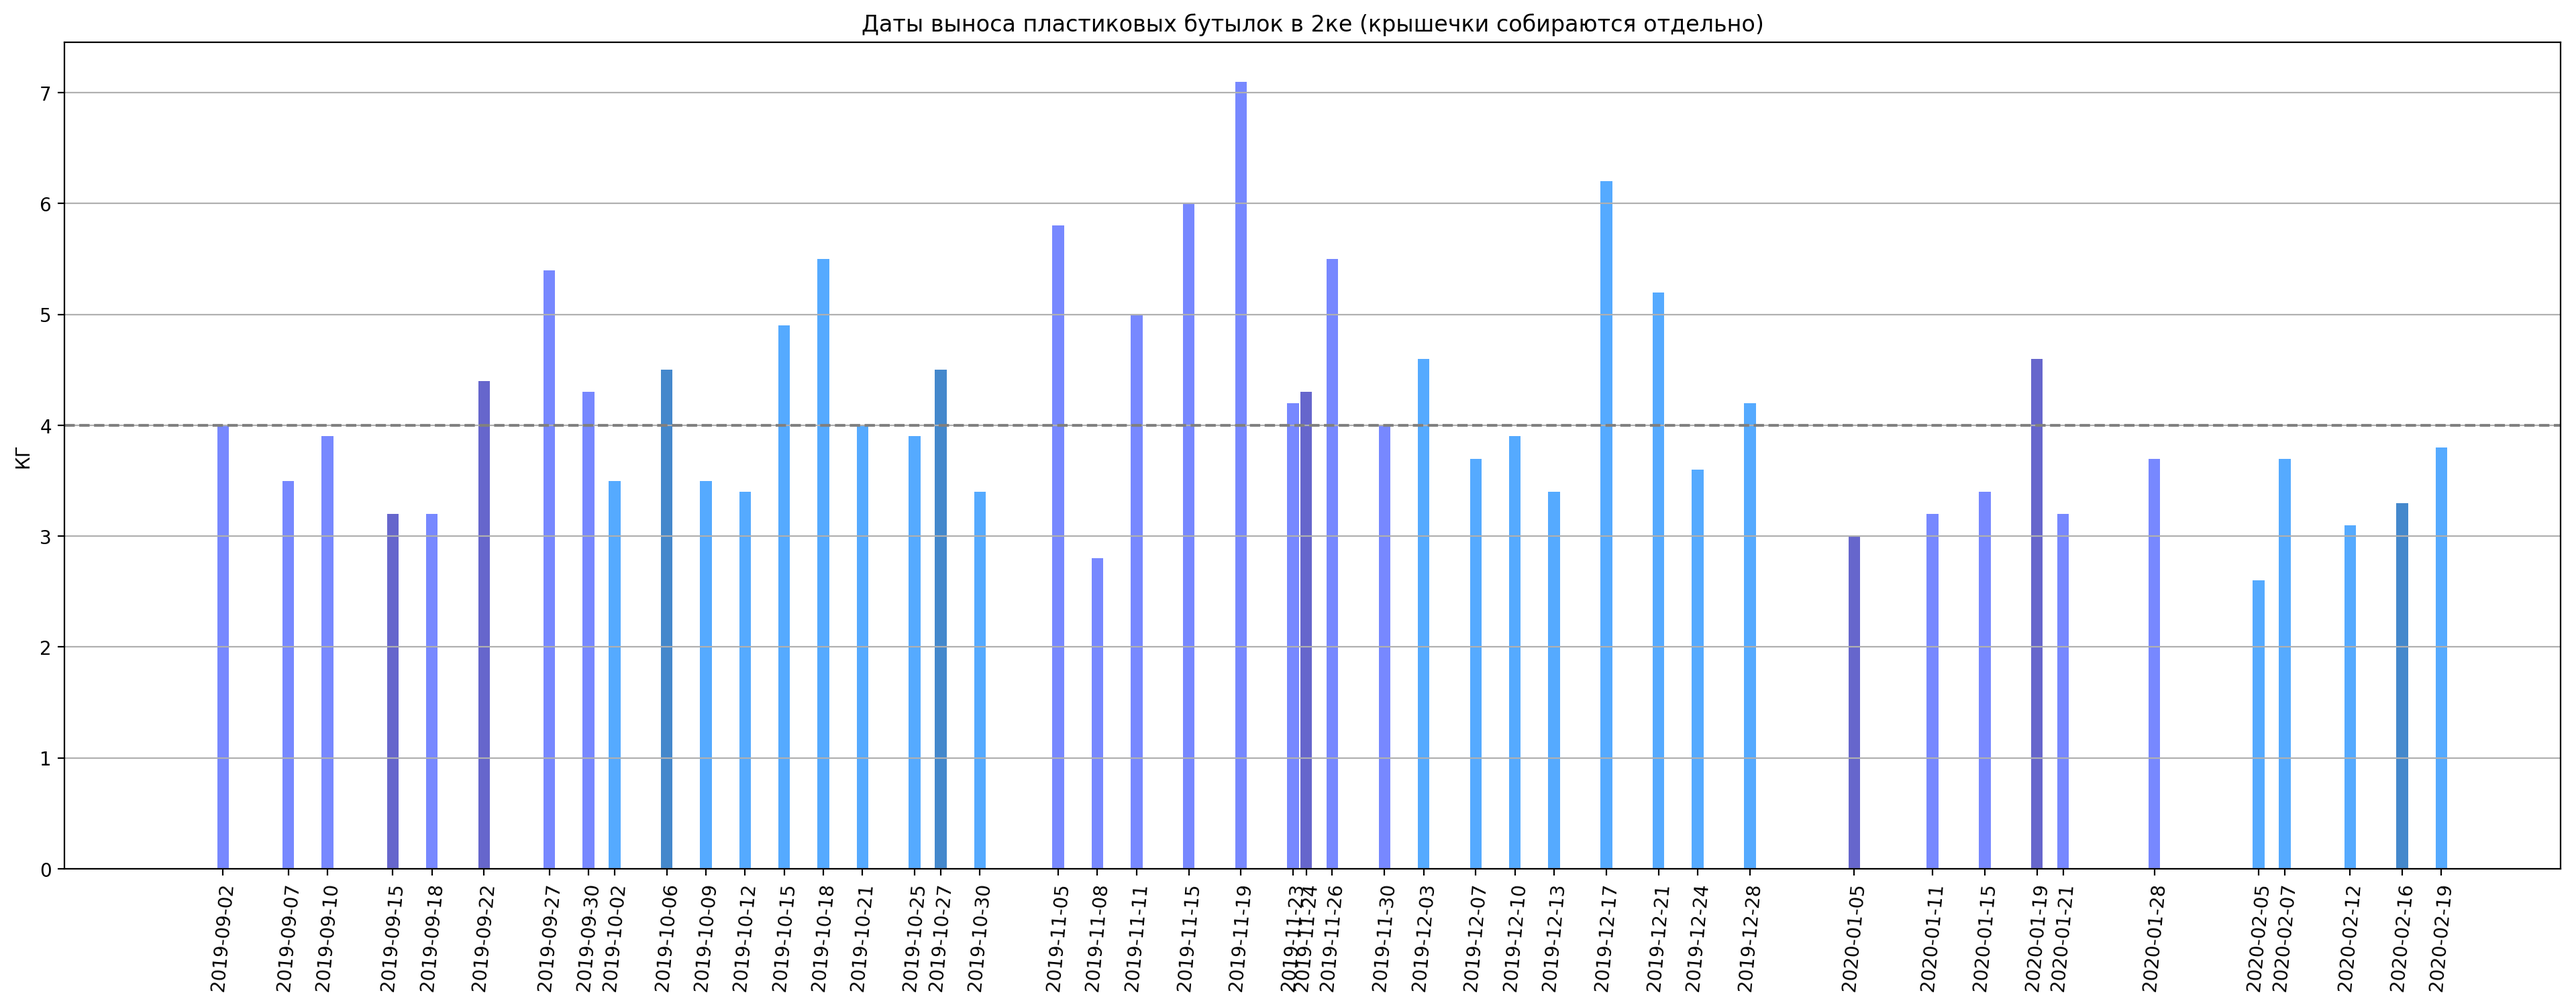
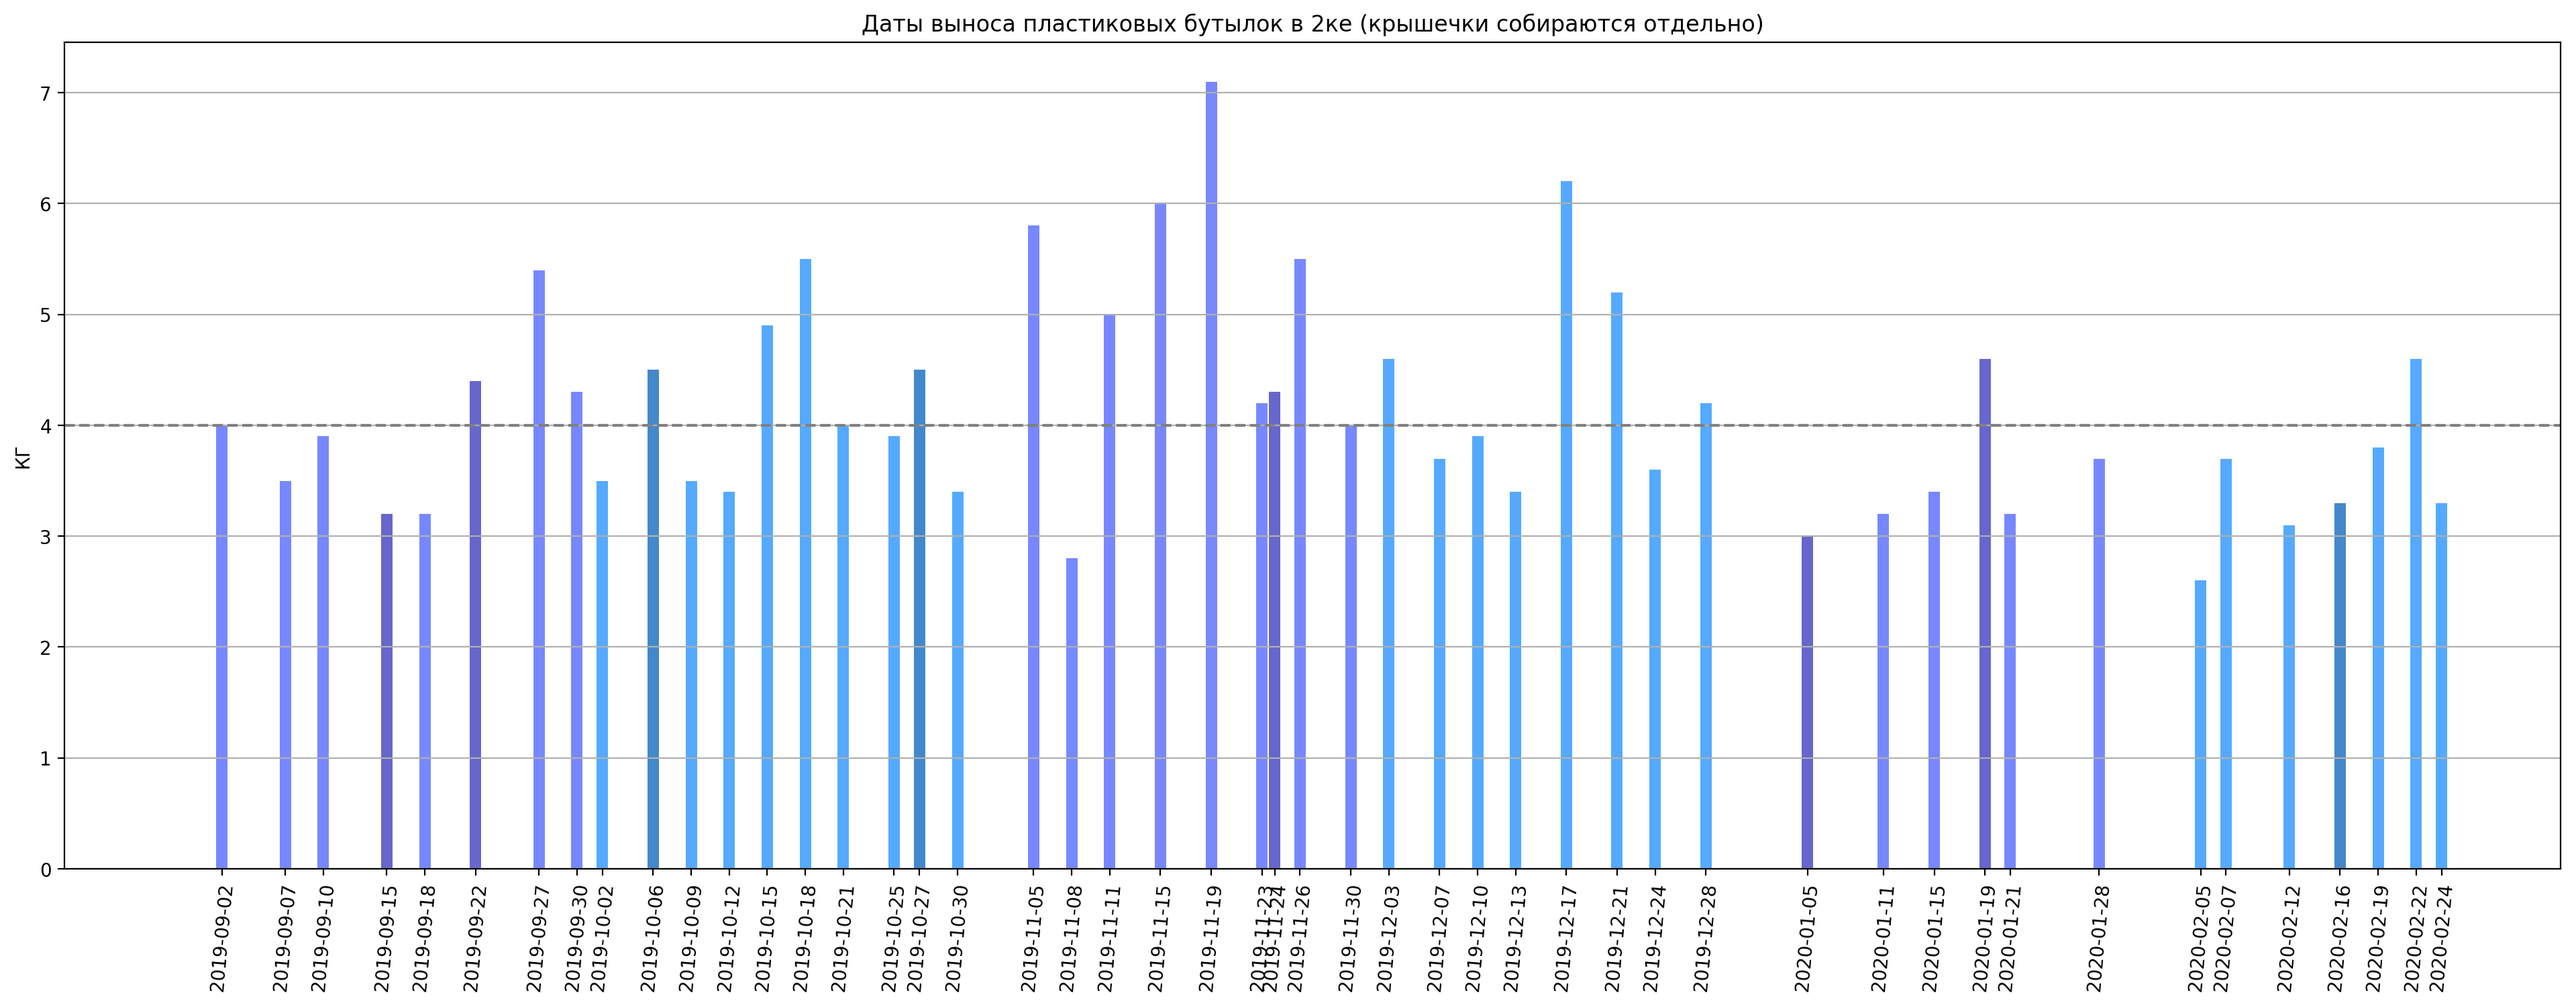
update data, refactor util functions, change number of output digits in report

Changed region(s): [[0.093, 0.0921, 0.9609, 0.9826]]

diff --git a/stats/main.py b/stats/main.py
@@ -1,12 +1,13 @@
-from utils import is_leap_year, days_in_month, next_day, str_dates
+from utils import *
 
 
 # read the data
 with open('2ka_plastic_data.txt') as f:
     lines = f.read().strip().splitlines()
-curr_date = (2019, 8, 29)
 
 
+# get start date
+curr_date = str_to_d3(lines.pop(0).split(': ')[0])
 
 # parse lines
 sparse_dates = []
@@ -14,7 +15,7 @@ sparse_weights = []
 for line in lines:
     date_str, weight_parts = line.strip().split(': ')
     weight = sum(float(x) for x in weight_parts.split(', '))
-    date = tuple(int(x) for x in date_str.split('-'))
+    date = str_to_d3(date_str)
     sparse_dates.append(date)
     sparse_weights.append(weight)
 
@@ -46,10 +47,14 @@ total_days = len(full_d)
 total_actions = len(sparse_weights)
 total_weight = sum(sparse_weights)
 
+# stringify dates
+full_d_str = [d3_to_str(d3) for d3 in full_d]
+sparse_dates_str = [d3_to_str(d3) for d3 in sparse_dates]
+
 #print(['%.2f' % k for k in full_k])
 
 report_text = '\n'.join([
-    u'Всего собрано: {:.3f} кг за {:d} дней (в среднем {:.3f} кг в день)'.format(
+    u'Всего собрано: {:.1f} кг за {:d} дней (в среднем {:.3f} кг в день)'.format(
     total_weight, total_days, total_weight / total_days),
     u'В среднем собирается {:.3f} кг раз в {:.3f} дня'.format(
     total_weight / total_actions, total_days / total_actions),
@@ -74,8 +79,8 @@ colors = [palette[int(wd == 6) + 2 * (d[1] & 1)] for wd, d in zip(full_w, full_d
 plt.figure(figsize=figsize)
 plt.title('Статистика сбора пластиковых бутылок в 2ке (крышечки собираются отдельно)')
 plt.axhline(1, color='gray', linestyle='--')
-plt.bar(str_dates(full_d), full_k, width=0.9, color=colors)
-plt.xticks(str_dates(full_d)[::3], rotation=75)
+plt.bar(full_d_str, full_k, width=0.9, color=colors)
+plt.xticks(full_d_str[::3], rotation=75)
 plt.ylabel('КГ в день')
 plt.grid(axis='y', which='both')
 plt.savefig('bottle-collection-stat-2ka.png', dpi=dpi, bbox_inches='tight')
@@ -84,8 +89,8 @@ plt.savefig('bottle-collection-stat-2ka.png', dpi=dpi, bbox_inches='tight')
 plt.figure(figsize=figsize)
 plt.title('Даты выноса пластиковых бутылок в 2ке (крышечки собираются отдельно)')
 plt.axhline(4, color='gray', linestyle='--')
-plt.bar(str_dates(full_d), full_a, width=0.9, color=colors)
-plt.xticks(str_dates(sparse_dates), rotation=85)
+plt.bar(full_d_str, full_a, width=0.9, color=colors)
+plt.xticks(sparse_dates_str, rotation=85)
 plt.ylabel('КГ')
 plt.grid(axis='y')
 plt.savefig('bottle-collection-days-2ka.png', dpi=dpi, bbox_inches='tight')
@@ -103,9 +108,9 @@ plt.figure(figsize=figsize)
 plt.title('Статистика сбора пластиковых бутылок в 2ке (крышечки собираются отдельно)')
 plt.axhline(0, color='k', linestyle='-')
 plt.axhline(1, color='gray', linestyle='--')
-plt.plot(str_dates(full_d), full_k, label='Точное')
-plt.plot(str_dates(full_d), full_k_smooth, linestyle='--', label='Экспоненциальное среднее (gamma=0.9)')
-plt.xticks(str_dates(full_d)[::7], rotation=70)
+plt.plot(full_d_str, full_k, label='Точное')
+plt.plot(full_d_str, full_k_smooth, linestyle='--', label='Экспоненциальное среднее (gamma=0.9)')
+plt.xticks(full_d_str[::7], rotation=70)
 plt.ylabel('КГ в день')
 plt.grid(axis='y')
 plt.legend()

diff --git a/stats/utils.py b/stats/utils.py
@@ -20,5 +20,9 @@ def next_day(d3):
     return (d3[0], d3[1], d3[2] + 1)
 
 
-def str_dates(d3_arr):
-    return ['-'.join('%02d' % x for x in d3) for d3 in d3_arr]
+def str_to_d3(date_str):
+    return tuple(int(x) for x in date_str.split('-'))
+
+
+def d3_to_str(d3):
+    return '-'.join('%02d' % x for x in d3)
